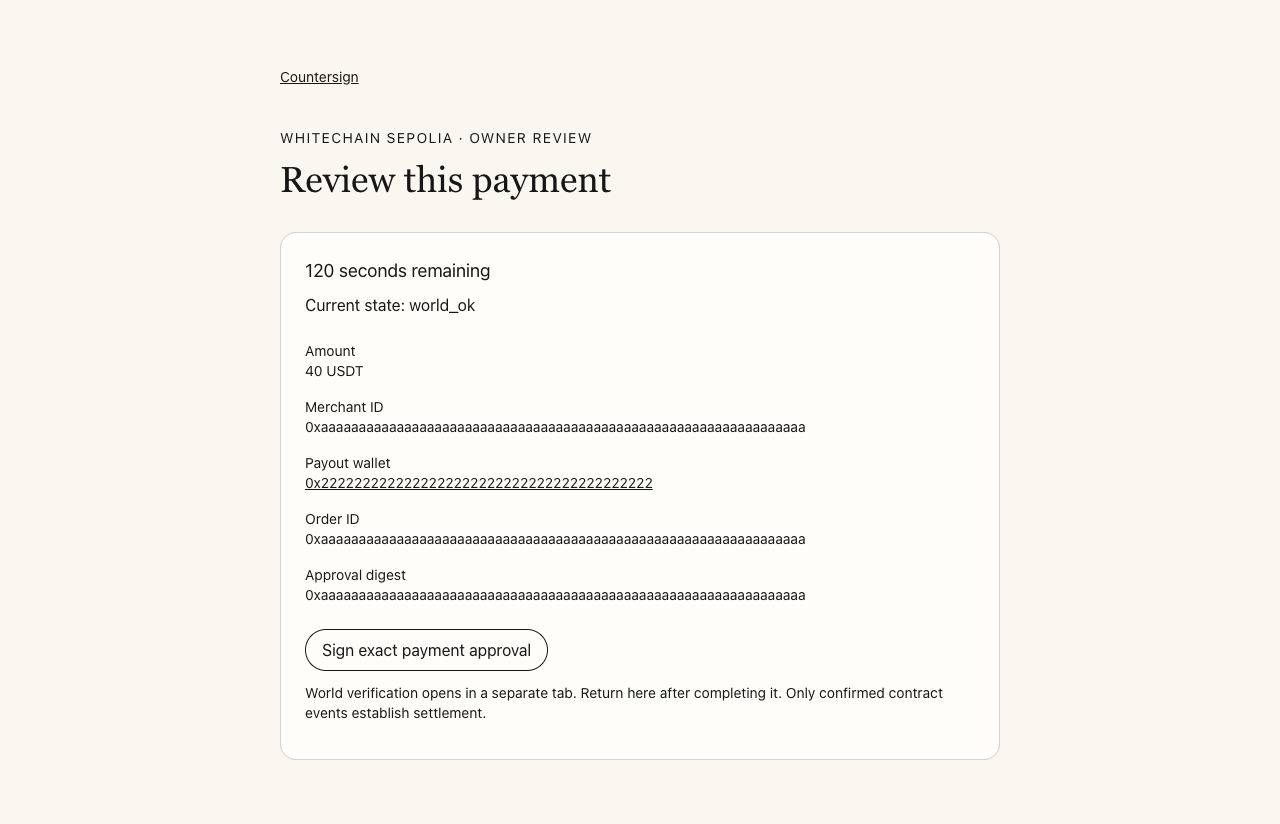
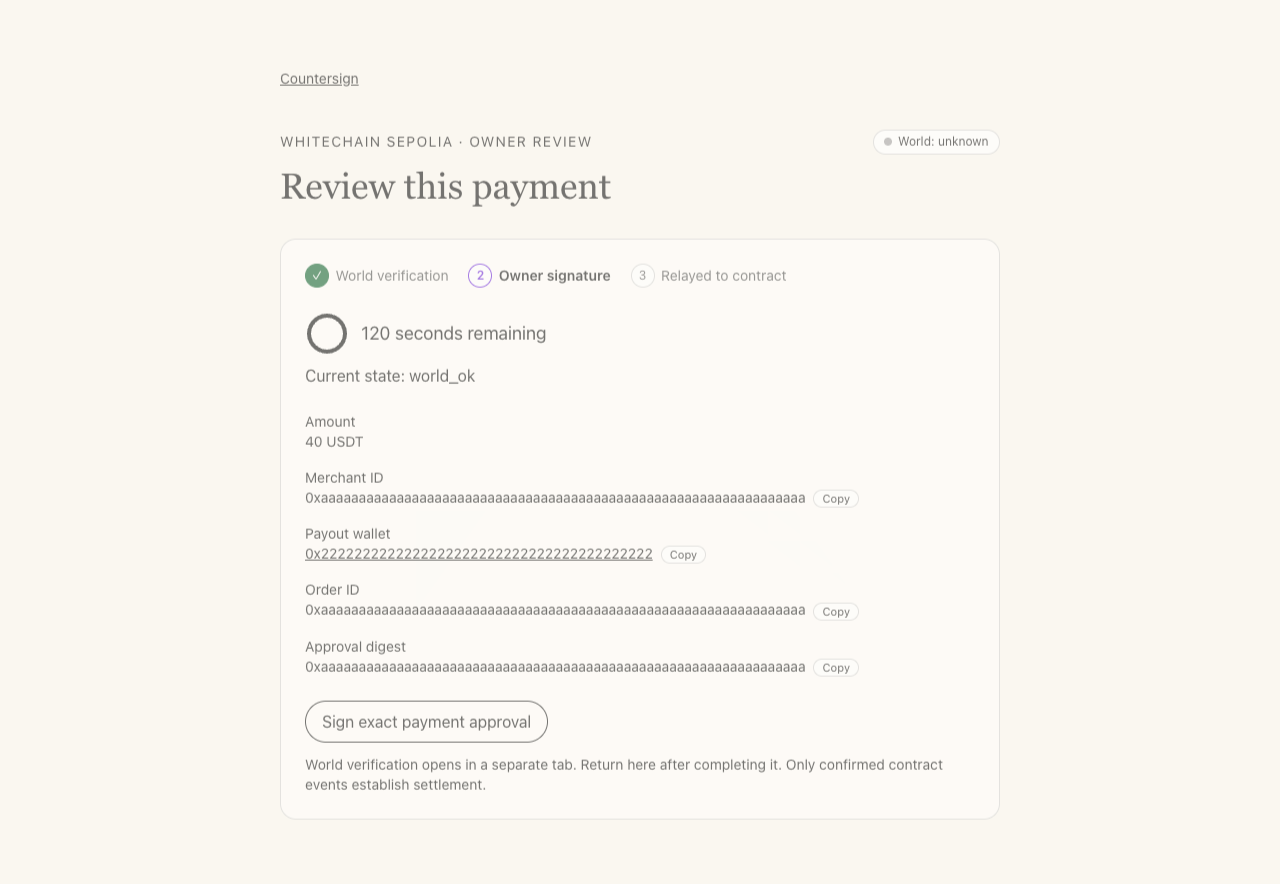
feat: UI polish (CSS/motion only): skeletons, badges incl. true World mode, step indicator, countdown ring, copy+explorer links via shared chain, revert toast; axe 0 violations; desktop+mobile screenshots; Playwright 14/14

diff --git a/web/src/components/countersign/ApprovalView.tsx b/web/src/components/countersign/ApprovalView.tsx
@@ -3,11 +3,13 @@ import {subscribeRealtime} from '@/lib/countersign-realtime';
 import Link from 'next/link';
 import ApprovalActions from './ApprovalActions';
 import { useEffect, useState } from 'react';
+import {CopyButton,CountdownRing,ExplorerLink,Steps,WorldModeBadge} from './ui';
 type Terms = {owner:string;worldStartUrl:string;typedData:{domain:{chainId:number;verifyingContract:string};primaryType:string;types:Record<string,unknown>;message:Record<string,unknown>}; formattedAmount: string; status: string; expiresAt: number; approvalDigest: string; intent: { amount: string; payout: string; merchantId: string; orderId: string; deadline: string } };
 export default function ApprovalView({ id }: { id: string }) {
   const [terms, setTerms] = useState<Terms | null>(null);
   const [error, setError] = useState('Loading exact payment terms…');
   const [now, setNow] = useState(0);
+  const [total, setTotal] = useState(0);
   useEffect(() => {
     const controller = new AbortController(); let timer: ReturnType<typeof setTimeout>;let inFlight=false;
     const clock = setInterval(() => setNow(Math.floor(Date.now() / 1000)), 1000);
@@ -17,7 +19,7 @@ export default function ApprovalView({ id }: { id: string }) {
         const response = await fetch(`/api/countersign/approvals/${id}`, { cache: 'no-store', signal: controller.signal });
         const data = await response.json();
         if (!response.ok) { setTerms(null); setError(data.error); }
-        else { setTerms(data); setError(''); setNow(Math.floor(Date.now() / 1000)); }
+        else { const t = Math.floor(Date.now() / 1000); setTerms(data); setError(''); setNow(t); setTotal(v => Math.max(v, data.expiresAt - t)); }
       } catch { if (!controller.signal.aborted) { setTerms(null); setError('Connection unavailable. Approval controls are unavailable.'); } }
       inFlight=false;
       if (!controller.signal.aborted) timer = setTimeout(update, 3000);
@@ -25,20 +27,22 @@ export default function ApprovalView({ id }: { id: string }) {
     const unsubscribe=subscribeRealtime(()=>{void update();});void update(); return () => { unsubscribe();controller.abort(); clearTimeout(timer); clearInterval(clock); };
   }, [id]);
   const remaining = terms ? Math.max(0, terms.expiresAt - now) : 0;
+  const step = !terms ? 0 : terms.status === 'pending_human' ? 0 : terms.status === 'world_ok' ? 1 : 2;
   return <main className="mx-auto max-w-3xl px-6 py-16">
     <Link href="/" className="text-sm underline">Countersign</Link>
-    <p className="mt-10 text-sm uppercase tracking-widest">Whitechain Sepolia · owner review</p>
+    <div className="mt-10 flex flex-wrap items-center justify-between gap-3"><p className="text-sm uppercase tracking-widest">Whitechain Sepolia · owner review</p><WorldModeBadge/></div>
     <h1 className="mt-3 font-serif text-4xl">Review this payment</h1>
     <div className="mt-8 rounded-2xl border border-neutral-300 bg-white/70 p-6" aria-live="polite">
-      {!terms ? <p role="status">{error}</p> : <>
-        <p className="text-lg">{remaining === 0 ? 'Approval expired' : `${remaining} seconds remaining`}</p>
+      {!terms ? <p role="status" className={error.endsWith('…') ? 'cs-skeleton' : undefined}>{error}</p> : <>
+        <Steps steps={['World verification', 'Owner signature', 'Relayed to contract']} current={step}/>
+        <div className="mt-6 flex items-center gap-3"><CountdownRing remaining={remaining} total={total}/><p className="text-lg">{remaining === 0 ? 'Approval expired' : `${remaining} seconds remaining`}</p></div>
         <p className="mt-2">Current state: {terms.status}</p>
         <dl className="mt-6 grid gap-4 text-sm">
           <div><dt>Amount</dt><dd className="break-all">{terms.formattedAmount} USDT</dd></div>
-          <div><dt>Merchant ID</dt><dd className="break-all">{terms.intent.merchantId}</dd></div>
-          <div><dt>Payout wallet</dt><dd className="break-all"><a className="underline" href={`https://explorer.testnet.whitechain.io/address/${terms.intent.payout}`} target="_blank" rel="noopener noreferrer">{terms.intent.payout}</a></dd></div>
-          <div><dt>Order ID</dt><dd className="break-all">{terms.intent.orderId}</dd></div>
-          <div><dt>Approval digest</dt><dd className="break-all">{terms.approvalDigest}</dd></div>
+          <div><dt>Merchant ID</dt><dd className="break-all">{terms.intent.merchantId}<CopyButton value={terms.intent.merchantId} label="Copy merchant ID"/></dd></div>
+          <div><dt>Payout wallet</dt><dd className="break-all"><ExplorerLink address={terms.intent.payout}/><CopyButton value={terms.intent.payout} label="Copy payout wallet"/></dd></div>
+          <div><dt>Order ID</dt><dd className="break-all">{terms.intent.orderId}<CopyButton value={terms.intent.orderId} label="Copy order ID"/></dd></div>
+          <div><dt>Approval digest</dt><dd className="break-all">{terms.approvalDigest}<CopyButton value={terms.approvalDigest} label="Copy approval digest"/></dd></div>
         </dl>
         <ApprovalActions id={id} terms={terms} active={remaining>0}/>
       </>}

diff --git a/web/src/app/countersign.css b/web/src/app/countersign.css
@@ -20,3 +20,42 @@ body { background: var(--cs-paper); color: var(--cs-ink); }
 @media (prefers-reduced-motion: reduce) {
   *, *::before, *::after { animation: none !important; transition: none !important; }
 }
+
+/* F4 polish: same tokens, CSS + motion only. Light-only palette, so pin color-scheme for consistent native controls. */
+:root { --cs-line: #d4d4d4; --cs-muted: #525252; --cs-ok: #166534; --cs-warn: #9a3412; color-scheme: light; }
+.text-neutral-500, .text-neutral-600 { color: var(--cs-muted); } /* AA contrast on paper */
+main { animation: cs-in 240ms ease-out both; }
+main section, main .rounded-2xl, main .rounded-xl { transition: box-shadow 160ms ease, border-color 160ms ease; }
+main .rounded-2xl.border:hover, main li > .rounded-xl.border:hover { border-color: #a3a3a3; box-shadow: 0 1px 8px rgb(0 0 0 / .05); }
+button, a { transition: background-color 140ms ease, color 140ms ease, opacity 140ms ease, transform 140ms ease; }
+button:not(:disabled) { cursor: pointer; }
+button.rounded-full:not(:disabled):hover { background: rgb(0 0 0 / .06); }
+button.rounded-full:not(:disabled):active { transform: translateY(1px); }
+a.underline:hover { text-decoration-thickness: 2px; }
+input:focus-visible, textarea:focus-visible, select:focus-visible { outline-offset: 1px; }
+input, textarea, select { background: #fff; }
+dd, pre { overflow-wrap: anywhere; }
+[role="status"]:empty { display: none; }
+/* Loading skeleton: a status line ending in an ellipsis shimmers until data arrives. */
+.cs-skeleton { padding: .5rem .75rem; border-radius: .5rem; background: linear-gradient(90deg,#ece8df 25%,#f6f3ec 50%,#ece8df 75%); background-size: 200% 100%; animation: cs-shimmer 1.2s linear infinite; }
+.cs-badge { display: inline-flex; align-items: center; gap: .35rem; border: 1px solid var(--cs-line); border-radius: 999px; padding: .15rem .65rem; font-size: .75rem; background: #fff; }
+.cs-badge::before { content: ""; width: .5rem; height: .5rem; border-radius: 999px; background: #a3a3a3; }
+.cs-badge[data-mode="Live"]::before { background: var(--cs-ok); }
+.cs-badge[data-mode="Sandbox"]::before { background: #b45309; }
+.cs-copy { margin-left: .5rem; border: 1px solid var(--cs-line); border-radius: 999px; padding: 0 .5rem; font-size: .7rem; vertical-align: middle; background: #fff; }
+.cs-copy:hover { background: #f5f5f5; }
+.cs-steps { display: flex; flex-wrap: wrap; gap: .5rem 1.25rem; font-size: .875rem; list-style: none; padding: 0; }
+.cs-steps li { display: flex; align-items: center; gap: .4rem; color: var(--cs-muted); }
+.cs-steps li span { display: inline-grid; place-items: center; width: 1.5rem; height: 1.5rem; border-radius: 999px; border: 1px solid var(--cs-line); font-size: .75rem; background: #fff; }
+.cs-steps li[data-state="current"] { color: var(--cs-ink); font-weight: 600; }
+.cs-steps li[data-state="current"] span { border-color: var(--cs-focus); color: var(--cs-focus); }
+.cs-steps li[data-state="done"] span { background: var(--cs-ok); border-color: var(--cs-ok); color: #fff; }
+.cs-ring-track { stroke: #e5e5e5; }
+.cs-ring-bar { stroke: var(--cs-ink); transition: stroke-dashoffset 1s linear; }
+.cs-ring[data-low] .cs-ring-bar { stroke: var(--cs-warn); }
+.cs-toast { position: fixed; z-index: 50; left: 50%; bottom: 1.5rem; transform: translateX(-50%); display: flex; gap: 1rem; align-items: start; max-width: min(36rem, calc(100vw - 2rem)); border: 1px solid #fdba74; border-radius: 1rem; background: #fff7ed; color: #7c2d12; padding: .9rem 1.1rem; box-shadow: 0 6px 24px rgb(0 0 0 / .12); animation: cs-up 200ms ease-out both; }
+.cs-toast button { font-size: 1.25rem; line-height: 1; }
+@media (max-width: 640px) { main { padding-top: 2.5rem !important; padding-bottom: 2.5rem !important; } main h1 { font-size: 1.875rem !important; } }
+@keyframes cs-in { from { opacity: 0; transform: translateY(4px); } }
+@keyframes cs-up { from { opacity: 0; transform: translate(-50%, 8px); } }
+@keyframes cs-shimmer { to { background-position: -200% 0; } }

diff --git a/web/src/components/countersign/MerchantView.tsx b/web/src/components/countersign/MerchantView.tsx
@@ -1,4 +1,5 @@
 'use client';
+import {ExplorerLink} from './ui';
 import Link from 'next/link';
 import RefundControls from './RefundControls';
 import {useEffect,useState} from 'react';
@@ -25,6 +26,6 @@ export default function MerchantView(){
  return <main className="mx-auto max-w-4xl px-6 py-16"><Link href="/" className="underline">Countersign</Link><h1 className="mt-10 font-serif text-4xl">Merchant workspace</h1><p className="mt-3">Whitechain Sepolia · official test USDT</p>
  <form className="mt-8" onSubmit={event=>{event.preventDefault();setProfile(null);if(/^0x[\da-fA-F]{64}$/.test(input)){setId(input);setStatus('Reading registry…');}else{setId('');setStatus('Enter a bytes32 merchant ID.');}}}><label htmlFor="merchant-id">Merchant ID</label><input id="merchant-id" value={input} onChange={e=>setInput(e.target.value)} className="mt-2 block w-full rounded-lg border p-3"/><button className="mt-3 rounded-full border px-5 py-2">Read registry</button></form>
  {profile&&<><section className="mt-8 rounded-2xl border p-6"><h2 className="text-xl">{profile.registered?'Registered merchant':'Merchant ID is not registered'}</h2>{profile.registered&&<><p className="mt-3 break-all">Registry owner: {profile.owner}</p><p className="break-all">Payout: {profile.payout}</p><p>Version {profile.version} · {profile.active?'Active':'Inactive'}</p></>}<label className="mt-5 block" htmlFor="merchant-payout">Payout wallet</label><input id="merchant-payout" value={payout} onChange={e=>setPayout(e.target.value)} className="mt-2 w-full rounded-lg border p-3"/><p className="mt-2 text-sm">Payout changes invalidate previously signed payment terms. Registration uses the connected wallet as registry owner.</p><button disabled={busy||!/^0x[\da-fA-F]{40}$/.test(payout)} onClick={submit} className="mt-4 rounded-full border px-5 py-2 disabled:opacity-40">{profile.registered?'Update payout in wallet':'Register in wallet'}</button></section>
- <section className="mt-8"><h2 className="text-xl">Confirmed incoming payments</h2>{profile.paymentHistoryState!=='current'?<p className="mt-3">Observer is unavailable or catching up. Payment history cannot be shown as current.</p>:profile.payments.length===0?<p className="mt-3">No confirmed payments recorded.</p>:<ul className="mt-4 grid gap-3">{profile.payments.map(payment=><li key={payment.payment_id} className="rounded-xl border p-4"><Link className="underline" href={`/r/${payment.payment_id}`}>{amount(payment.amount,profile.decimals)} USDT · {payment.status}</Link><a className="ml-4 underline" href={`https://explorer.testnet.whitechain.io/tx/${payment.tx_hash}`} target="_blank" rel="noopener noreferrer">Transaction ↗</a></li>)}</ul>}</section></>}
- <p role="status" className="mt-6">{status}</p>{hash&&<a className="mt-3 block underline" target="_blank" rel="noopener noreferrer" href={`https://explorer.testnet.whitechain.io/tx/${hash}`}>View registry transaction ↗</a>}<RefundControls/><p className="mt-6 text-sm">Webhook-delivery history is still being integrated.</p></main>;
+ <section className="mt-8"><h2 className="text-xl">Confirmed incoming payments</h2>{profile.paymentHistoryState!=='current'?<p className="mt-3">Observer is unavailable or catching up. Payment history cannot be shown as current.</p>:profile.payments.length===0?<p className="mt-3">No confirmed payments recorded.</p>:<ul className="mt-4 grid gap-3">{profile.payments.map(payment=><li key={payment.payment_id} className="rounded-xl border p-4"><Link className="underline" href={`/r/${payment.payment_id}`}>{amount(payment.amount,profile.decimals)} USDT · {payment.status}</Link><ExplorerLink tx={payment.tx_hash} className="ml-4 underline">Transaction ↗</ExplorerLink></li>)}</ul>}</section></>}
+ <p role="status" className="mt-6">{status}</p>{hash&&<ExplorerLink tx={hash} className="mt-3 block underline">View registry transaction ↗</ExplorerLink>}<RefundControls/><p className="mt-6 text-sm">Webhook-delivery history is still being integrated.</p></main>;
 }

diff --git a/web/src/components/countersign/MandateActions.tsx b/web/src/components/countersign/MandateActions.tsx
@@ -1,4 +1,5 @@
 'use client';
+import {ExplorerLink} from './ui';
 import {useState} from 'react';
 type Provider={request:(args:{method:string;params?:unknown[]})=>Promise<unknown>};
 type Snapshot={mandateAddress:string;owner:string;paused:boolean;actions:{pause:string;unpause:string;revoke:string}};
@@ -48,5 +49,5 @@ export default function MandateActions({id,wallet,snapshot}:{id:string;wallet:st
   finally{setBusy(false);}
  }
  const allowed=wallet.toLowerCase()===snapshot.owner.toLowerCase();
- return <section className="mt-6 rounded-2xl border p-6"><h2 className="text-lg font-semibold">Owner controls</h2><p className="mt-2 text-sm">Pause blocks payments. Revoke invalidates outstanding signatures by changing the epoch; it does not permanently disable the agent. Your wallet pays testnet gas.</p><div className="mt-4 flex flex-wrap gap-3"><button disabled={!allowed||busy} onClick={()=>act(snapshot.paused?'unpause':'pause')} className="rounded-full border px-5 py-2 disabled:opacity-40">{snapshot.paused?'Unpause payments':'Pause payments'}</button><button disabled={!allowed||busy} onClick={()=>act('revoke')} className="rounded-full border px-5 py-2 disabled:opacity-40">Revoke outstanding signatures</button></div><div className="mt-6"><label htmlFor="merchant-access">Registered merchant ID</label><input id="merchant-access" className="mt-2 block w-full rounded-lg border p-3" value={merchant} onChange={event=>setMerchant(event.target.value)} disabled={busy}/><p className="mt-2 text-sm">Changing merchant access invalidates outstanding signatures.</p><div className="mt-3 flex gap-3"><button className="rounded-full border px-4 py-2 disabled:opacity-40" disabled={!allowed||busy||!merchant} onClick={()=>act('allow')}>Allow merchant</button><button className="rounded-full border px-4 py-2 disabled:opacity-40" disabled={!allowed||busy||!merchant} onClick={()=>act('remove')}>Remove merchant</button></div></div><p role="status" className="mt-4 text-sm">{status}</p>{hash&&<a className="mt-2 block underline" href={`https://explorer.testnet.whitechain.io/tx/${hash}`} target="_blank" rel="noopener noreferrer">View transaction ↗</a>}</section>;
+ return <section className="mt-6 rounded-2xl border p-6"><h2 className="text-lg font-semibold">Owner controls</h2><p className="mt-2 text-sm">Pause blocks payments. Revoke invalidates outstanding signatures by changing the epoch; it does not permanently disable the agent. Your wallet pays testnet gas.</p><div className="mt-4 flex flex-wrap gap-3"><button disabled={!allowed||busy} onClick={()=>act(snapshot.paused?'unpause':'pause')} className="rounded-full border px-5 py-2 disabled:opacity-40">{snapshot.paused?'Unpause payments':'Pause payments'}</button><button disabled={!allowed||busy} onClick={()=>act('revoke')} className="rounded-full border px-5 py-2 disabled:opacity-40">Revoke outstanding signatures</button></div><div className="mt-6"><label htmlFor="merchant-access">Registered merchant ID</label><input id="merchant-access" className="mt-2 block w-full rounded-lg border p-3" value={merchant} onChange={event=>setMerchant(event.target.value)} disabled={busy}/><p className="mt-2 text-sm">Changing merchant access invalidates outstanding signatures.</p><div className="mt-3 flex gap-3"><button className="rounded-full border px-4 py-2 disabled:opacity-40" disabled={!allowed||busy||!merchant} onClick={()=>act('allow')}>Allow merchant</button><button className="rounded-full border px-4 py-2 disabled:opacity-40" disabled={!allowed||busy||!merchant} onClick={()=>act('remove')}>Remove merchant</button></div></div><p role="status" className="mt-4 text-sm">{status}</p>{hash&&<ExplorerLink tx={hash} className="mt-2 block underline">View transaction ↗</ExplorerLink>}</section>;
 }

diff --git a/web/src/components/countersign/DemoView.tsx b/web/src/components/countersign/DemoView.tsx
@@ -1,4 +1,5 @@
 'use client';
+import {ExplorerLink} from './ui';
 import Link from 'next/link';
 import {useEffect,useState} from 'react';
 const commands=['buy-report','tamper-amount','tamper-payout','order-40','over-budget','save-replay','replay-after-revoke','arbitrary-relayer-call'];
@@ -6,5 +7,5 @@ export default function DemoView(){
  const [run,setRun]=useState(''),[busy,setBusy]=useState(false),[output,setOutput]=useState('No scenario executed.'),[tx,setTx]=useState<string[]>([]);
  async function start(command:string){setBusy(true);setOutput('Requesting scenario execution…');setTx([]);try{const response=await fetch(`/api/countersign/demo/${command}`,{method:'POST'});const data=await response.json();if(!response.ok)throw new Error(data.error);setRun(data.id);}catch(error){setOutput(error instanceof Error?error.message:'Runner unavailable.');setBusy(false);}}
  useEffect(()=>{if(!run)return;let timer:ReturnType<typeof setTimeout>;const controller=new AbortController();async function poll(){try{const response=await fetch(`/api/countersign/demo/${run}`,{cache:'no-store',signal:controller.signal});const data=await response.json();if(!response.ok)throw new Error(data.error);setOutput(`${data.status}\n${data.output??''}`);const hashes:string[]=[];for(const line of (data.output??'').split('\n')){try{const value=JSON.parse(line);if(/^0x[\da-fA-F]{64}$/.test(value.txHash))hashes.push(value.txHash);}catch{}}setTx([...new Set(hashes)]);if(data.status==='running'){timer=setTimeout(poll,1500);}else setBusy(false);}catch{if(!controller.signal.aborted){setOutput('Runner status unavailable. Inspect the runner and chain before retrying.');setBusy(false);}}}void poll();return()=>{controller.abort();clearTimeout(timer);};},[run]);
- return <main className="mx-auto max-w-4xl px-6 py-16"><Link href="/" className="underline">Countersign</Link><h1 className="mt-10 font-serif text-4xl">Live demo console</h1><p className="mt-4">These buttons invoke the configured testnet agent runner. Rejections show their actual reason. An API rejection has no onchain revert transaction.</p><p className="mt-3">For revoke/replay, save an unused intent, revoke in the owner wallet, then replay within 180 seconds. Complete World approvals in the owner tab.</p><div className="mt-8 flex flex-wrap gap-3">{commands.map(command=><button key={command} disabled={busy} onClick={()=>start(command)} className="rounded-full border px-4 py-2 disabled:opacity-40">{command}</button>)}</div><pre aria-live="polite" className="mt-8 whitespace-pre-wrap break-all rounded-xl border p-5">{output}</pre>{tx.map(hash=><a key={hash} className="mt-3 block break-all underline" target="_blank" rel="noopener noreferrer" href={`https://explorer.testnet.whitechain.io/tx/${hash}`}>{hash} ↗</a>)}</main>;
+ return <main className="mx-auto max-w-4xl px-6 py-16"><Link href="/" className="underline">Countersign</Link><h1 className="mt-10 font-serif text-4xl">Live demo console</h1><p className="mt-4">These buttons invoke the configured testnet agent runner. Rejections show their actual reason. An API rejection has no onchain revert transaction.</p><p className="mt-3">For revoke/replay, save an unused intent, revoke in the owner wallet, then replay within 180 seconds. Complete World approvals in the owner tab.</p><div className="mt-8 flex flex-wrap gap-3">{commands.map(command=><button key={command} disabled={busy} onClick={()=>start(command)} className="rounded-full border px-4 py-2 disabled:opacity-40">{command}</button>)}</div><pre aria-live="polite" className="mt-8 whitespace-pre-wrap break-all rounded-xl border p-5">{output}</pre>{tx.map(hash=><ExplorerLink key={hash} tx={hash} className="mt-3 block break-all underline">{hash} ↗</ExplorerLink>)}</main>;
 }

diff --git a/web/src/components/countersign/RefundControls.tsx b/web/src/components/countersign/RefundControls.tsx
@@ -1,4 +1,5 @@
 'use client';
+import {ExplorerLink} from './ui';
 import {useState} from 'react';
 import {paymentError} from '@/lib/countersign-errors';
 type Tx={from:string;to:string;data:string;value:string;chainId:number};
@@ -23,5 +24,5 @@ export default function RefundControls(){
    if(receipt?.status==='0x1'&&receipt.blockNumber){const head=await p.request({method:'eth_blockNumber'});const block=await p.request({method:'eth_getBlockByNumber',params:[receipt.blockNumber,false]}) as {hash?:string}|null;if(typeof head==='string'&&BigInt(head)>=BigInt(receipt.blockNumber)+BigInt(3)&&block?.hash===receipt.blockHash){setStep(step+1);setHash('');setMessage(step+1===plan.transactions.length?'Wallet transactions confirmed. Receipt status updates from confirmed logs.':'Step confirmed. Continue to the next transaction.');return;}}
    await new Promise(resolve=>setTimeout(resolve,2000));}setMessage('Still pending. Check confirmation again without resubmitting.');
  }catch(error){if((error as {code?:number}).code===4001)setUnknown(false);setMessage(paymentError(error instanceof Error?error.message:error));}finally{setBusy(false);}}
- return <section className="mt-8 rounded-2xl border p-6"><h2 className="text-xl">Refund a payment</h2><p className="mt-2 text-sm">Use the original payout wallet. Refunds never restore the spending budget.</p><form onSubmit={prepare} className="mt-4 grid gap-3"><label>Payment ID<input required disabled={!!plan} value={paymentId} onChange={e=>setPaymentId(e.target.value)} className="block w-full rounded-lg border p-2"/></label><label>Refund amount (USDT)<input required disabled={!!plan} value={amount} onChange={e=>setAmount(e.target.value)} className="block w-full rounded-lg border p-2"/></label><button disabled={busy||!!plan} className="rounded-full border px-4 py-2 disabled:opacity-40">Review refund</button></form>{plan&&<><p className="mt-3">{plan.warning}</p>{step<plan.transactions.length&&<button disabled={busy||unknown} onClick={send} className="mt-4 rounded-full border px-4 py-2 disabled:opacity-40">{hash?'Check confirmation':`Confirm refund step ${step+1}`}</button>}</>}<p role="status" className="mt-3">{message}</p>{unknown&&<p>Submission outcome is unknown. Inspect your wallet before retrying.</p>}{hash&&<a target="_blank" rel="noopener noreferrer" className="underline" href={`https://explorer.testnet.whitechain.io/tx/${hash}`}>View transaction ↗</a>}</section>;
+ return <section className="mt-8 rounded-2xl border p-6"><h2 className="text-xl">Refund a payment</h2><p className="mt-2 text-sm">Use the original payout wallet. Refunds never restore the spending budget.</p><form onSubmit={prepare} className="mt-4 grid gap-3"><label>Payment ID<input required disabled={!!plan} value={paymentId} onChange={e=>setPaymentId(e.target.value)} className="block w-full rounded-lg border p-2"/></label><label>Refund amount (USDT)<input required disabled={!!plan} value={amount} onChange={e=>setAmount(e.target.value)} className="block w-full rounded-lg border p-2"/></label><button disabled={busy||!!plan} className="rounded-full border px-4 py-2 disabled:opacity-40">Review refund</button></form>{plan&&<><p className="mt-3">{plan.warning}</p>{step<plan.transactions.length&&<button disabled={busy||unknown} onClick={send} className="mt-4 rounded-full border px-4 py-2 disabled:opacity-40">{hash?'Check confirmation':`Confirm refund step ${step+1}`}</button>}</>}<p role="status" className="mt-3">{message}</p>{unknown&&<p>Submission outcome is unknown. Inspect your wallet before retrying.</p>}{hash&&<ExplorerLink tx={hash} className="underline">View transaction ↗</ExplorerLink>}</section>;
 }

diff --git a/web/src/components/countersign/ApprovalActions.tsx b/web/src/components/countersign/ApprovalActions.tsx
@@ -1,11 +1,12 @@
 'use client';
 import {paymentError} from '@/lib/countersign-errors';
 import {useState} from 'react';
+import {Toast} from './ui';
 type Terms={status:string;expiresAt:number;owner:string;worldStartUrl:string;typedData:{domain:{chainId:number;verifyingContract:string};primaryType:string;types:Record<string,unknown>;message:Record<string,unknown>}};
 type Provider={request:(args:{method:string;params?:unknown[]})=>Promise<unknown>};
 export default function ApprovalActions({id,terms,active}:{id:string;terms:Terms;active:boolean}){
- const [busy,setBusy]=useState(false),[message,setMessage]=useState('');
- async function sign(){setBusy(true);try{
+ const [busy,setBusy]=useState(false),[message,setMessage]=useState(''),[failure,setFailure]=useState('');
+ async function sign(){setBusy(true);setFailure('');try{
   const response=await fetch(`/api/countersign/approvals/${id}`,{cache:'no-store'});if(!response.ok)throw new Error('Cannot refresh approval terms.');const fresh:Terms=await response.json();
   if(fresh.status!=='world_ok'||fresh.expiresAt<=Date.now()/1000||fresh.typedData?.domain?.chainId!==1874||fresh.typedData.primaryType!=='PaymentApproval')throw new Error('Fresh World verification is required before signing.');
   const p=(window as Window&{ethereum?:Provider}).ethereum;if(!p)throw new Error('Connect a browser wallet.');
@@ -14,6 +15,6 @@ export default function ApprovalActions({id,terms,active}:{id:string;terms:Terms
   const signature=await p.request({method:'eth_signTypedData_v4',params:[fresh.owner,JSON.stringify(fresh.typedData)]});
   const submit=await fetch(`/api/countersign/approvals/${id}/owner-signature`,{method:'POST',headers:{'content-type':'application/json'},body:JSON.stringify({signature})});const result=await submit.json();if(!submit.ok)throw new Error(result.error??'Submission unavailable.');
   setMessage(result.status==='submitted'?'Payment submitted. Awaiting confirmed contract events.':'Owner signature recorded. Payment is not yet confirmed.');
- }catch(error){setMessage(paymentError(error instanceof Error?error.message:error));}finally{setBusy(false);}}
- return <div className="mt-6"><div className="flex flex-wrap gap-4">{active&&terms.status==='pending_human'&&<a className="underline" target="_blank" rel="noopener noreferrer" href={terms.worldStartUrl}>Verify with World ↗</a>}<button disabled={busy||!active||terms.status!=='world_ok'} onClick={sign} className="rounded-full border px-4 py-2 disabled:opacity-40">Sign exact payment approval</button></div><p className="mt-3 text-sm">World verification opens in a separate tab. Return here after completing it. Only confirmed contract events establish settlement.</p><p role="status" className="mt-3">{message}</p></div>;
+ }catch(error){setMessage('');setFailure(paymentError(error instanceof Error?error.message:error));}finally{setBusy(false);}}
+ return <div className="mt-6"><div className="flex flex-wrap gap-4">{active&&terms.status==='pending_human'&&<a className="underline" target="_blank" rel="noopener noreferrer" href={terms.worldStartUrl}>Verify with World ↗</a>}<button disabled={busy||!active||terms.status!=='world_ok'} onClick={sign} className="rounded-full border px-4 py-2 disabled:opacity-40">Sign exact payment approval</button></div><p className="mt-3 text-sm">World verification opens in a separate tab. Return here after completing it. Only confirmed contract events establish settlement.</p><p role="status" className="mt-3">{message}</p><Toast message={failure} onClose={()=>setFailure('')}/></div>;
 }

diff --git a/web/src/components/countersign/ReceiptView.tsx b/web/src/components/countersign/ReceiptView.tsx
@@ -2,6 +2,7 @@
 import {subscribeRealtime} from '@/lib/countersign-realtime';
 import Link from 'next/link';
 import { useEffect, useState } from 'react';
+import {CopyButton,ExplorerLink} from './ui';
 type Receipt = { paymentId: string; amount: string; refunded: string; decimals: number; status: string; mandateId: string; merchantId: string; payout: string; humanApproved: boolean; txHash: string; checkedAt: string };
 function amount(value: string, decimals: number) {
   const padded = value.padStart(decimals + 1, '0');
@@ -31,19 +32,19 @@ export default function ReceiptView({ paymentId }: { paymentId: string }) {
     <Link href="/" className="text-sm underline">Countersign</Link>
     <p className="mt-10 text-sm uppercase tracking-widest">Whitechain Sepolia · testnet</p>
     <h1 className="mt-3 font-serif text-4xl">Payment receipt</h1>
-    <p className="mt-4 break-all text-sm text-neutral-600">{paymentId}</p>
+    <p className="mt-4 break-all text-sm text-neutral-600">{paymentId}<CopyButton value={paymentId} label="Copy payment ID"/></p>
     <div aria-live="polite" className="mt-8 rounded-2xl border border-neutral-300 bg-white/70 p-6">
-      {!receipt ? <p role="status">{message}</p> : <>
+      {!receipt ? <p role="status" className={message.endsWith('…') ? 'cs-skeleton' : undefined}>{message}</p> : <>
         <p className="text-3xl font-semibold">{amount(receipt.amount, receipt.decimals)} USDT</p>
         <p className="mt-2">{({ settled: 'Payment confirmed', partially_refunded: 'Partially refunded', refunded: 'Fully refunded' } as Record<string, string>)[receipt.status]}</p>
         <dl className="mt-6 grid gap-4 text-sm">
           <div><dt className="text-neutral-500">Refunded</dt><dd>{amount(receipt.refunded, receipt.decimals)} USDT</dd></div>
           <div><dt className="text-neutral-500">Payer mandate</dt><dd className="break-all">{receipt.mandateId}</dd></div>
           <div><dt className="text-neutral-500">Merchant</dt><dd className="break-all">{receipt.merchantId}</dd></div>
-          <div><dt className="text-neutral-500">Payout wallet</dt><dd className="break-all"><a className="underline" href={`https://explorer.testnet.whitechain.io/address/${receipt.payout}`} target="_blank" rel="noopener noreferrer">{receipt.payout}</a></dd></div>
+          <div><dt className="text-neutral-500">Payout wallet</dt><dd className="break-all"><ExplorerLink address={receipt.payout}/><CopyButton value={receipt.payout} label="Copy payout wallet"/></dd></div>
           <div><dt className="text-neutral-500">Human approval recorded by contract</dt><dd>{receipt.humanApproved ? 'Yes' : 'No: automatic payment'}</dd></div>
         </dl>
-        <a className="mt-6 inline-block underline" href={`https://explorer.testnet.whitechain.io/tx/${receipt.txHash}`} target="_blank" rel="noopener noreferrer">View settlement transaction ↗</a>
+        <p className="mt-6"><ExplorerLink tx={receipt.txHash} className="inline-block underline">View settlement transaction ↗</ExplorerLink><CopyButton value={receipt.txHash} label="Copy transaction hash"/></p>
         <p className="mt-4 text-xs text-neutral-500">Last checked {new Date(receipt.checkedAt).toLocaleTimeString()}. Refreshes every five seconds.</p>
       </>}
     </div>

diff --git a/web/src/components/countersign/ui.tsx b/web/src/components/countersign/ui.tsx
@@ -1,0 +1,36 @@
+'use client';
+// F4 shared UI bits: copy, explorer links (from the single shared chain def), true-mode World badge, steps, countdown ring, toast.
+import {explorerAddress,explorerTx} from '@/lib/countersign-chain';
+import {useEffect,useState} from 'react';
+
+export function CopyButton({value,label='Copy'}:{value:string;label?:string}){
+ const [done,setDone]=useState(false);
+ return <button type="button" className="cs-copy" aria-label={`${label}: ${value}`} onClick={()=>{void navigator.clipboard?.writeText(value).then(()=>{setDone(true);setTimeout(()=>setDone(false),1500);},()=>{});}}>{done?'Copied':'Copy'}</button>;
+}
+
+// Malformed hash/address renders as plain text, never a broken explorer URL.
+export function ExplorerLink({tx,address,children,className="underline"}:{tx?:string;address?:string;children?:React.ReactNode;className?:string}){
+ let href='';try{href=tx?explorerTx(tx):explorerAddress(address??'');}catch{return <span className="break-all">{tx??address}</span>;}
+ return <a className={className} href={href} target="_blank" rel="noopener noreferrer">{children??(tx??address)}</a>;
+}
+
+// Mode comes from the API's /v1/network `world` block; never assumed.
+export function WorldModeBadge(){
+ const [mode,setMode]=useState('World: checking');
+ useEffect(()=>{const c=new AbortController();fetch('/api/network',{cache:'no-store',signal:c.signal}).then(r=>r.json()).then(d=>{const w=d?.world;setMode(!w?'World: unknown':!w.configured?'World: not configured':w.env==='production'?'World: Live':'World: Sandbox');}).catch(()=>{if(!c.signal.aborted)setMode('World: unknown');});return()=>c.abort();},[]);
+ return <span className="cs-badge" data-mode={mode.split(': ')[1]}>{mode}</span>;
+}
+
+export function Steps({steps,current}:{steps:string[];current:number}){
+ return <ol className="cs-steps" aria-label="Approval progress">{steps.map((s,i)=><li key={s} data-state={i<current?'done':i===current?'current':'upcoming'} aria-current={i===current?'step':undefined}><span aria-hidden="true">{i<current?'✓':i+1}</span>{s}</li>)}</ol>;
+}
+
+export function CountdownRing({remaining,total}:{remaining:number;total:number}){
+ const r=18,c=2*Math.PI*r,f=total>0?Math.min(1,remaining/total):0;
+ return <svg width="44" height="44" viewBox="0 0 44 44" aria-hidden="true" className="cs-ring" data-low={remaining<=30||undefined}><circle cx="22" cy="22" r={r} fill="none" strokeWidth="4" className="cs-ring-track"/><circle cx="22" cy="22" r={r} fill="none" strokeWidth="4" strokeDasharray={c} strokeDashoffset={c*(1-f)} transform="rotate(-90 22 22)" className="cs-ring-bar"/></svg>;
+}
+
+export function Toast({message,onClose}:{message:string;onClose:()=>void}){
+ if(!message)return null;
+ return <div role="alert" className="cs-toast"><span>{message}</span><button type="button" onClick={onClose} aria-label="Dismiss">×</button></div>;
+}

diff --git a/web/src/components/countersign/OwnerSetup.tsx b/web/src/components/countersign/OwnerSetup.tsx
@@ -1,4 +1,5 @@
 'use client';
+import {ExplorerLink} from './ui';
 import {useState} from 'react';
 type Tx={chainId:number;from:string;to:string;data:string;value:string;purpose:string};
 type Plan={chainId:number;owner:string;token:string;mandateAddress:string;mandateId:string;transactions:Tx[];warning:string};
@@ -37,5 +38,5 @@ export default function OwnerSetup({wallet}:{wallet:string}){
  }
  return <section className="mt-10 rounded-2xl border p-6"><h2 className="text-2xl">Create a mandate</h2><p className="mt-3 text-sm">Your connected wallet is the treasury and pays testnet gas. Allowance changes affect all your mandates using this contract.</p><form onSubmit={prepare} className="mt-5 grid gap-4">{fields.map(([name,label])=><label key={name} className="text-sm">{label}<input required disabled={busy||!!plan} value={values[name]??''} onChange={e=>setValues({...values,[name]:e.target.value})} className="mt-1 block w-full rounded-lg border p-2"/></label>)}<button disabled={!wallet||busy||!!plan} className="rounded-full border px-4 py-2 disabled:opacity-40">Review setup</button></form>
  {plan&&<div className="mt-5"><p>{plan.warning}</p><p className="mt-3 break-all">Mandate contract: {plan.mandateAddress}</p><p className="mt-3 break-all">Mandate ID: {plan.mandateId}</p><ol className="mt-4 list-inside list-decimal">{plan.transactions.map((tx,i)=><li key={i}>{tx.purpose}{i<index?': confirmed':''}</li>)}</ol>{index<plan.transactions.length&&<button disabled={busy||uncertain} onClick={send} className="mt-4 rounded-full bg-neutral-900 px-5 py-3 text-white disabled:opacity-40">{hash?'Check confirmation':`Confirm step ${index+1} in wallet`}</button>}</div>}
- <p role="status" className="mt-4">{status}</p>{uncertain&&<p>Submission outcome is unknown. Check your wallet and explorer before starting another setup; retries are blocked here.</p>}{hash&&<a className="underline" target="_blank" rel="noopener noreferrer" href={`https://explorer.testnet.whitechain.io/tx/${hash}`}>View pending transaction ↗</a>}<p className="mt-4 text-xs">Keep this page open until completion. If it closes, inspect wallet transactions and allowance before starting again.</p></section>;
+ <p role="status" className="mt-4">{status}</p>{uncertain&&<p>Submission outcome is unknown. Check your wallet and explorer before starting another setup; retries are blocked here.</p>}{hash&&<ExplorerLink tx={hash} className="underline">View pending transaction ↗</ExplorerLink>}<p className="mt-4 text-xs">Keep this page open until completion. If it closes, inspect wallet transactions and allowance before starting again.</p></section>;
 }

diff --git a/web/src/components/countersign/OwnerView.tsx b/web/src/components/countersign/OwnerView.tsx
@@ -1,4 +1,5 @@
 'use client';
+import {WorldModeBadge} from './ui';
 import {subscribeRealtime} from '@/lib/countersign-realtime';
 import Link from 'next/link';
 import OwnerIdentity from './OwnerIdentity';
@@ -27,7 +28,7 @@ export default function OwnerView(){
   async function update(){if(inFlight)return;inFlight=true;clearTimeout(timer);try{const response=await fetch(`/api/countersign/mandates/${id}`,{cache:'no-store',signal:controller.signal});const data=await response.json();if(!response.ok){setSnapshot(null);setMessage(data.error);}else{setSnapshot(data);setMessage('Live mandate read from Whitechain.');}}catch{if(!controller.signal.aborted){setSnapshot(null);setMessage('Connection unavailable. Budget is not being assumed.');}}inFlight=false;if(!controller.signal.aborted)timer=setTimeout(update,5000);}
   const unsubscribe=subscribeRealtime(()=>{void update();});void update();return()=>{unsubscribe();controller.abort();clearTimeout(timer);};
  },[id]);
- return <main className="mx-auto max-w-3xl px-6 py-16"><Link href="/" className="underline">Countersign</Link><h1 className="mt-10 font-serif text-4xl">Your spending mandate</h1><p className="mt-3">Whitechain Sepolia · testnet</p>
+ return <main className="mx-auto max-w-3xl px-6 py-16"><Link href="/" className="underline">Countersign</Link><h1 className="mt-10 font-serif text-4xl">Your spending mandate</h1><div className="mt-3 flex flex-wrap items-center gap-3"><p>Whitechain Sepolia · testnet</p><WorldModeBadge/></div>
  <button onClick={connect} className="mt-6 rounded-full bg-neutral-900 px-6 py-3 text-white">{wallet?'Reconnect wallet':'Connect wallet'}</button><p className="mt-3 break-all text-sm">{wallet}</p>
  <form className="mt-8" onSubmit={event=>{event.preventDefault();setSnapshot(null);if(/^0x[\da-fA-F]{64}$/.test(input))setId(input);else {setId('');setMessage('Enter a valid bytes32 mandate ID.');}}}><label htmlFor="mandate">Mandate ID</label><input id="mandate" value={input} onChange={e=>setInput(e.target.value)} className="mt-2 block w-full rounded-xl border p-3" placeholder="0x…"/><button className="mt-3 rounded-full border border-neutral-800 px-5 py-2">Read mandate</button></form>
  <p role="status" className="mt-6">{message}</p>

diff --git a/docs/proof/DUMMY-AUDIT-web.md b/docs/proof/DUMMY-AUDIT-web.md
@@ -1,0 +1,11 @@
+# DUMMY-AUDIT (web/src) — F4 cycle, 2026-11-06
+
+Command: `grep -rniE 'mock|stub|fake|dummy|todo|placeholder' web/src`
+
+| file:line | hit | status |
+|---|---|---|
+| web/src/components/countersign/OwnerView.tsx:33 | `placeholder="0x…"` (HTML input hint attribute for the mandate ID field) | kept — native input hint, not dummy data or a stubbed integration |
+
+No other hits in production paths. Mocked wallets/APIs exist only in `web/e2e/*.spec.mjs` (test-only, each file headed FIXTURE/MOCKED-WALLET).
+
+Mode labelling in UI: ENS badge (`Live · Sepolia` / `Fixture`, EnsIdentity.tsx) and new World badge (`World: Live` / `Sandbox` / `not configured` / `unknown`, ui.tsx `WorldModeBadge`) both derive from real API responses (`/api/countersign/ens/*`, `/api/network` → API `/v1/network` `world.env`/`world.configured`); nothing is hard-coded as Live.
